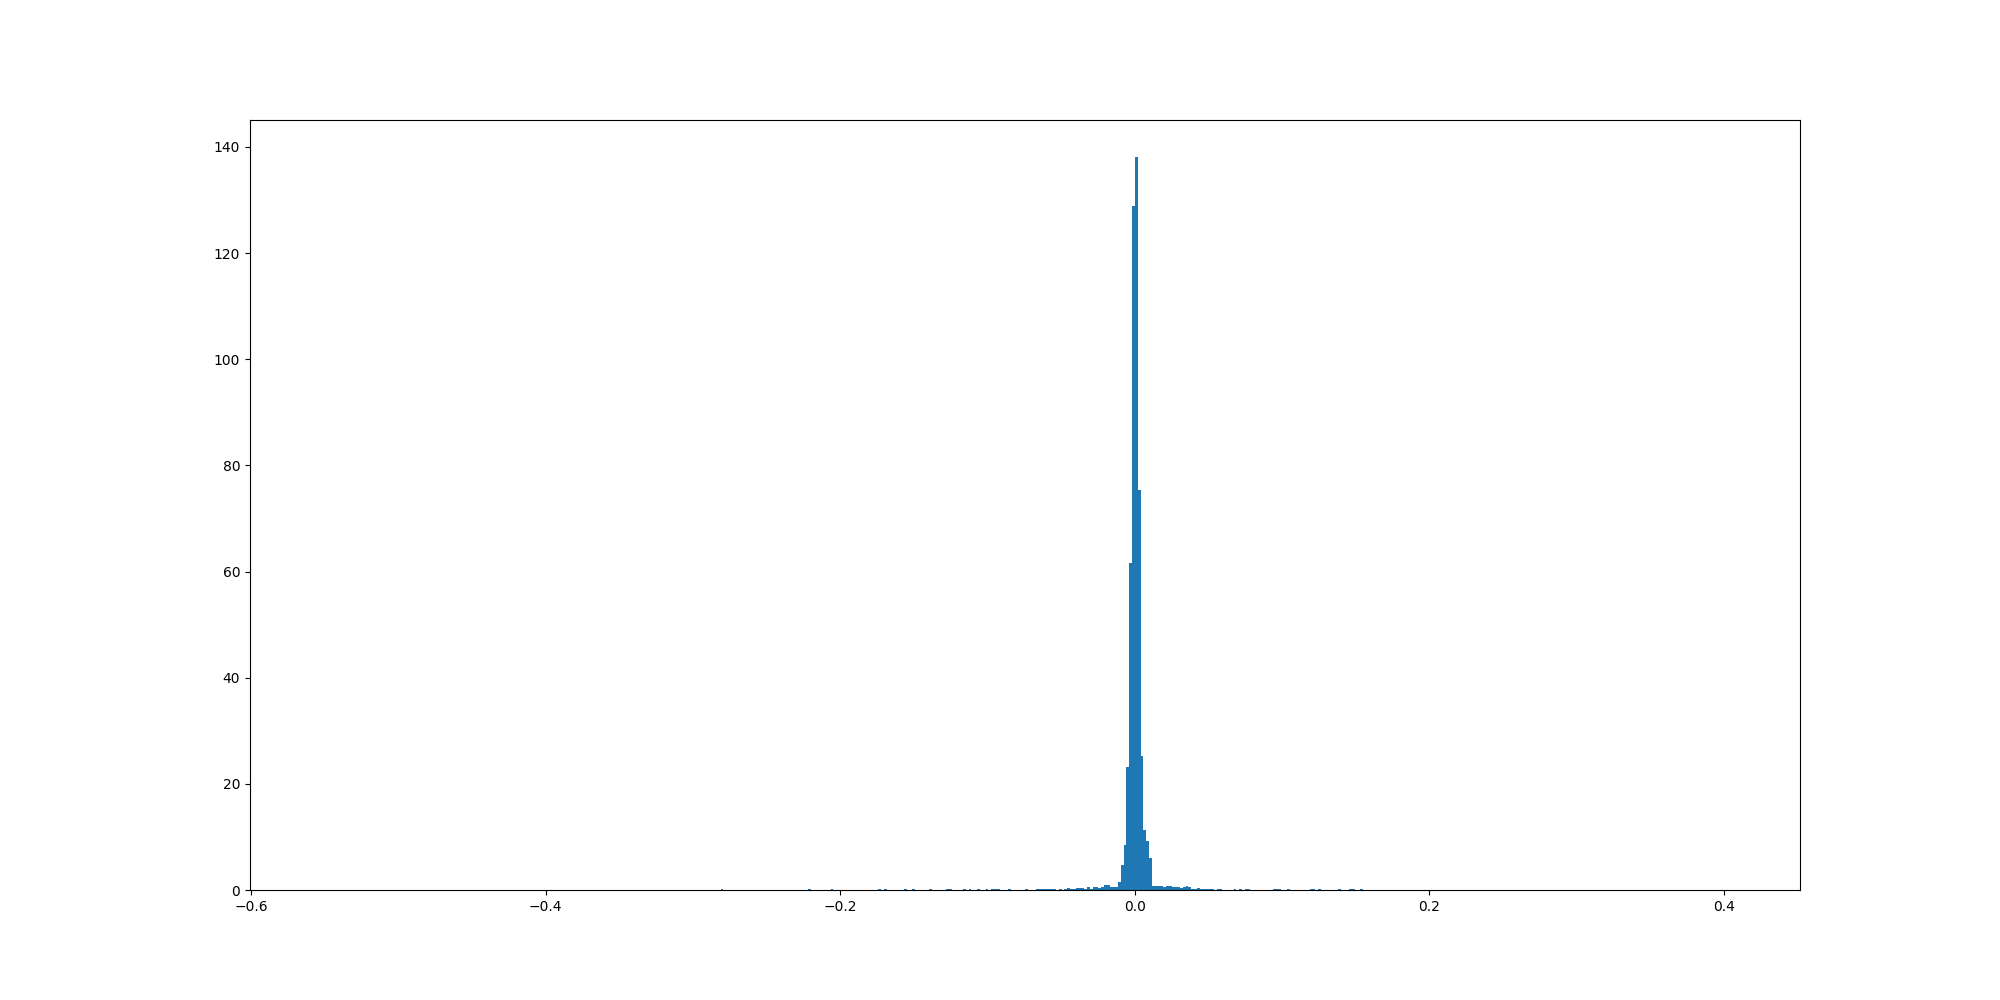
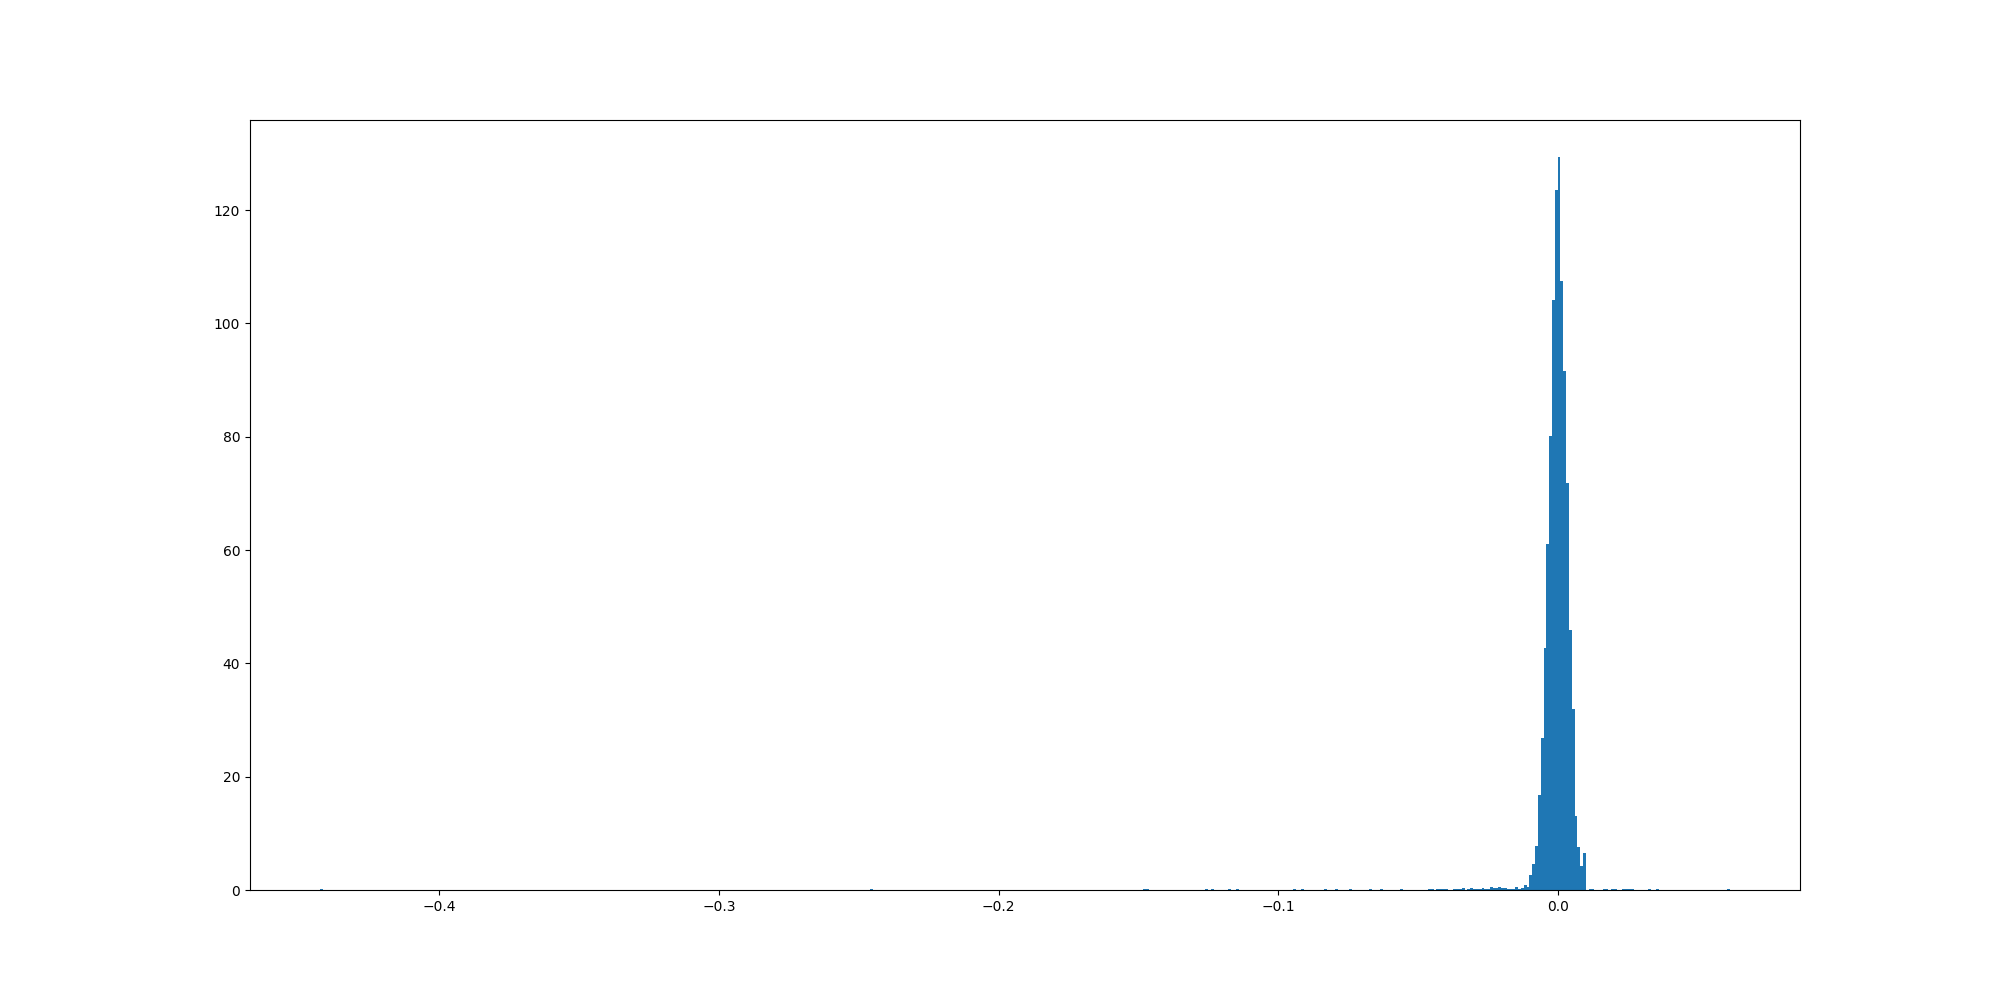
Changes: 	- Add config option print_ETA to print more info (if use call model.run with display=False) 	- Relocate some files

Changed region(s): [[0.744, 0.279, 0.806, 0.899], [0.558, 0.465, 0.589, 0.899]]

diff --git a/Models/BaseModel.py b/Models/BaseModel.py
@@ -1,3 +1,5 @@
+import datetime
+
 import agentpy as ap
 import numpy as np
 
@@ -14,6 +16,7 @@ class BaseModel(ap.Model):
     """
 
     def setup(self):
+        self.start_time = datetime.datetime.now()
         self.market_env = MarketEnv()
         self.market_env.market_history.add_deal_price(self.p.start_price)
         self.market_env.market_history.add_offer_price(self.p.start_price)
@@ -57,6 +60,9 @@ class BaseModel(ap.Model):
             buy_of.trader.change_balance(-1 * total_quantity * price, total_quantity)
             self.market_env.market_history.add_deal(sell_of.trader, buy_of.trader, total_quantity)
         self.market_env.order_book.clean()
+        if self.p.print_ETA:
+            mean_time = (datetime.datetime.now() - self.start_time) / self.t
+            print(f"\rModel with ID {self.id} complete: {self.t} steps \t ETA = {mean_time * (self.p.steps - self.t)}", end='')
 
     def end(self):
         if self.p.record_results:
@@ -68,8 +74,13 @@ class BaseModel(ap.Model):
             plt.hist(u, 500, density=True)
             plt.savefig(f"run_results/{self.p.model_name}/{self.p.steps}_price_hist.png")
             plt.close(figure1)
-            figure2 = plt.figure(1, figsize=(max(self.p.steps // 100, 50), 15))
+            figure2 = plt.figure(1, figsize=(20, 10))
+            plt.hist(u, 500, density=True)
+            plt.yscale('log')
+            plt.savefig(f"run_results/{self.p.model_name}/{self.p.steps}_price_hist_log.png")
+            plt.close(figure2)
+            figure3 = plt.figure(1, figsize=(max(self.p.steps // 100, 50), 15))
             plt.plot(prices, "bo-")
             plt.savefig(f"run_results/{self.p.model_name}/{self.p.steps}_price_plot.png")
-            plt.close(figure2)
+            plt.close(figure3)
 

diff --git a/main.py b/main.py
@@ -31,10 +31,10 @@ def prepare_configs(params):
 def main():
     with open('settings.json', 'r') as f:
         params = f.read()
-    parameters = json.loads(params)['SecondSetup']
+    parameters = json.loads(params)['ExperimentalSetup']
     parameters = prepare_configs(parameters)
     model = BaseModel(parameters=parameters)
-    result = model.run()
+    result = model.run(display=False)
     print(result)
 
 
